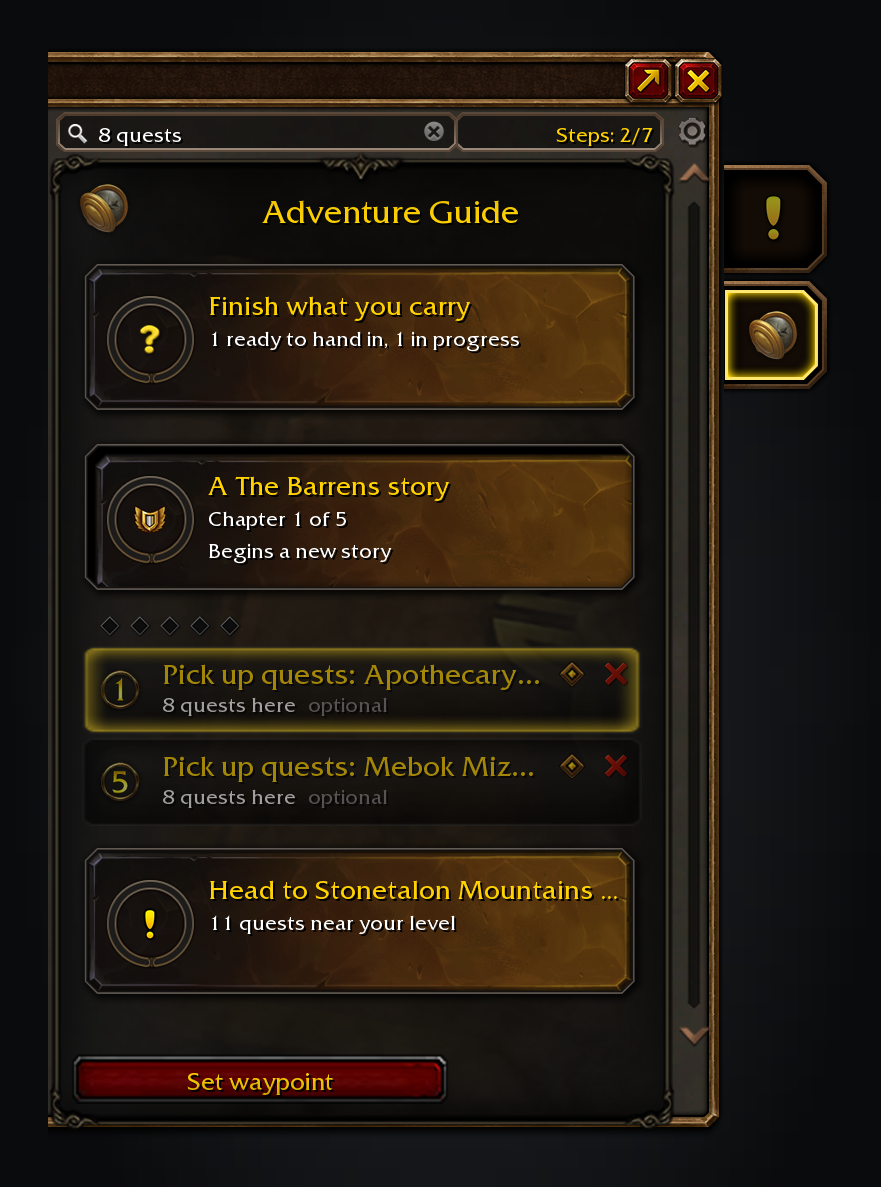
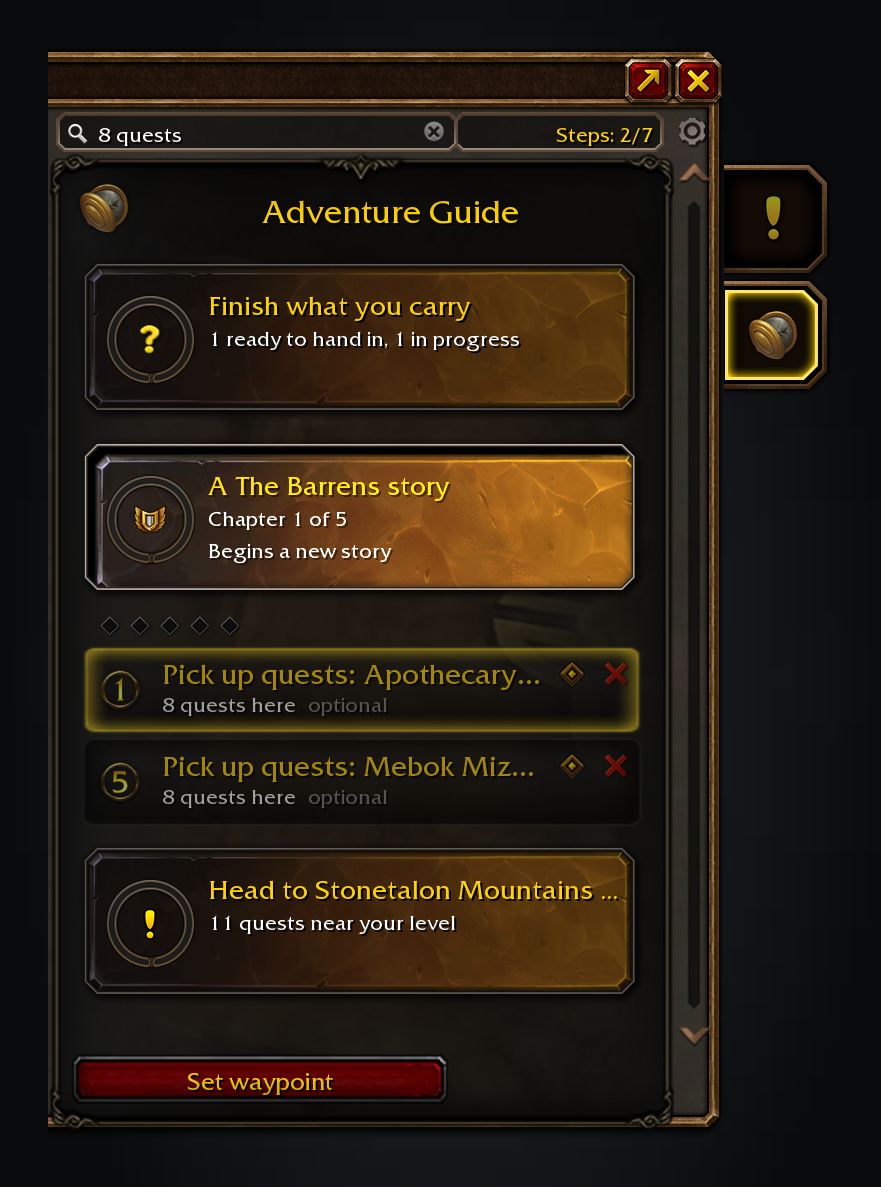
fix(panel): the chosen card keeps its highlight lit
In game the pressed art alone read as the same brown card as the others.
The chosen card now also locks its stock hover highlight (its own art,
added), as a stock list keeps its selected row lit. The layout dump carries
highlightAtlas so the screenshots draw it.

Claude-Session: https://claude.ai/code/session_01Tw2pFx5ck2PCNi8HRu6CA1

Changed region(s): [[0.0919, 0.3741, 0.7355, 0.4987]]

diff --git a/tools/screenshots.py b/tools/screenshots.py
@@ -522,6 +522,9 @@ class Layout:
             art(layer)
             if layer == "ARTWORK" and entry.get("normalAtlas"):
                 canvas.draw(canvas.ui.atlas(entry["normalAtlas"]), *rect, (1, 1, 1, alpha))
+            if layer == "HIGHLIGHT" and lit and entry.get("highlightAtlas"):
+                # Button:SetHighlightAtlas's texture: the button's size, blended ADD (the client's default).
+                canvas.draw(canvas.ui.atlas(entry["highlightAtlas"]), *rect, (1, 1, 1, alpha), "ADD")
             for region in regions:
                 if (region.get("layer") or "ARTWORK") != layer or (layer == "HIGHLIGHT" and not lit):
                     continue
